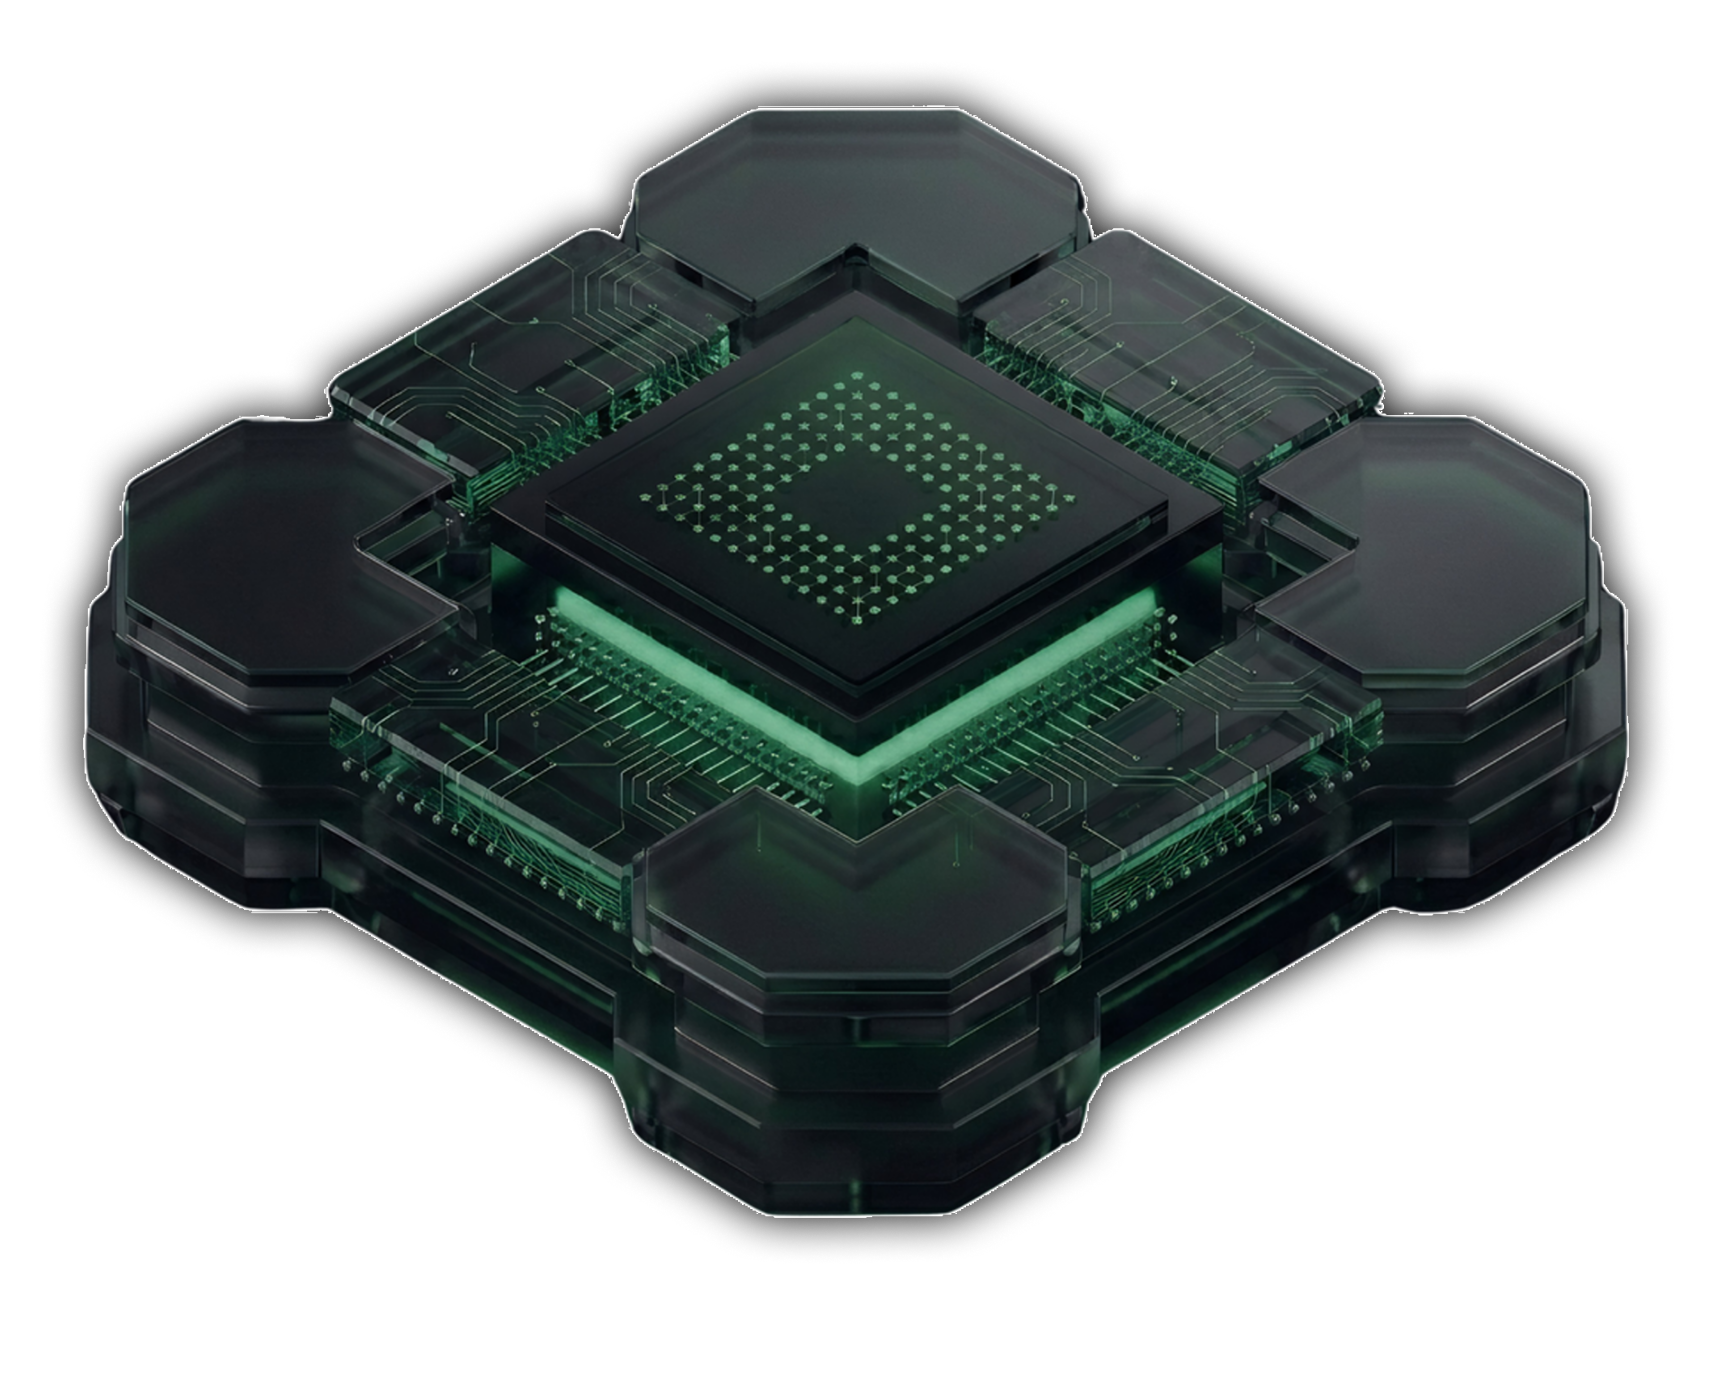
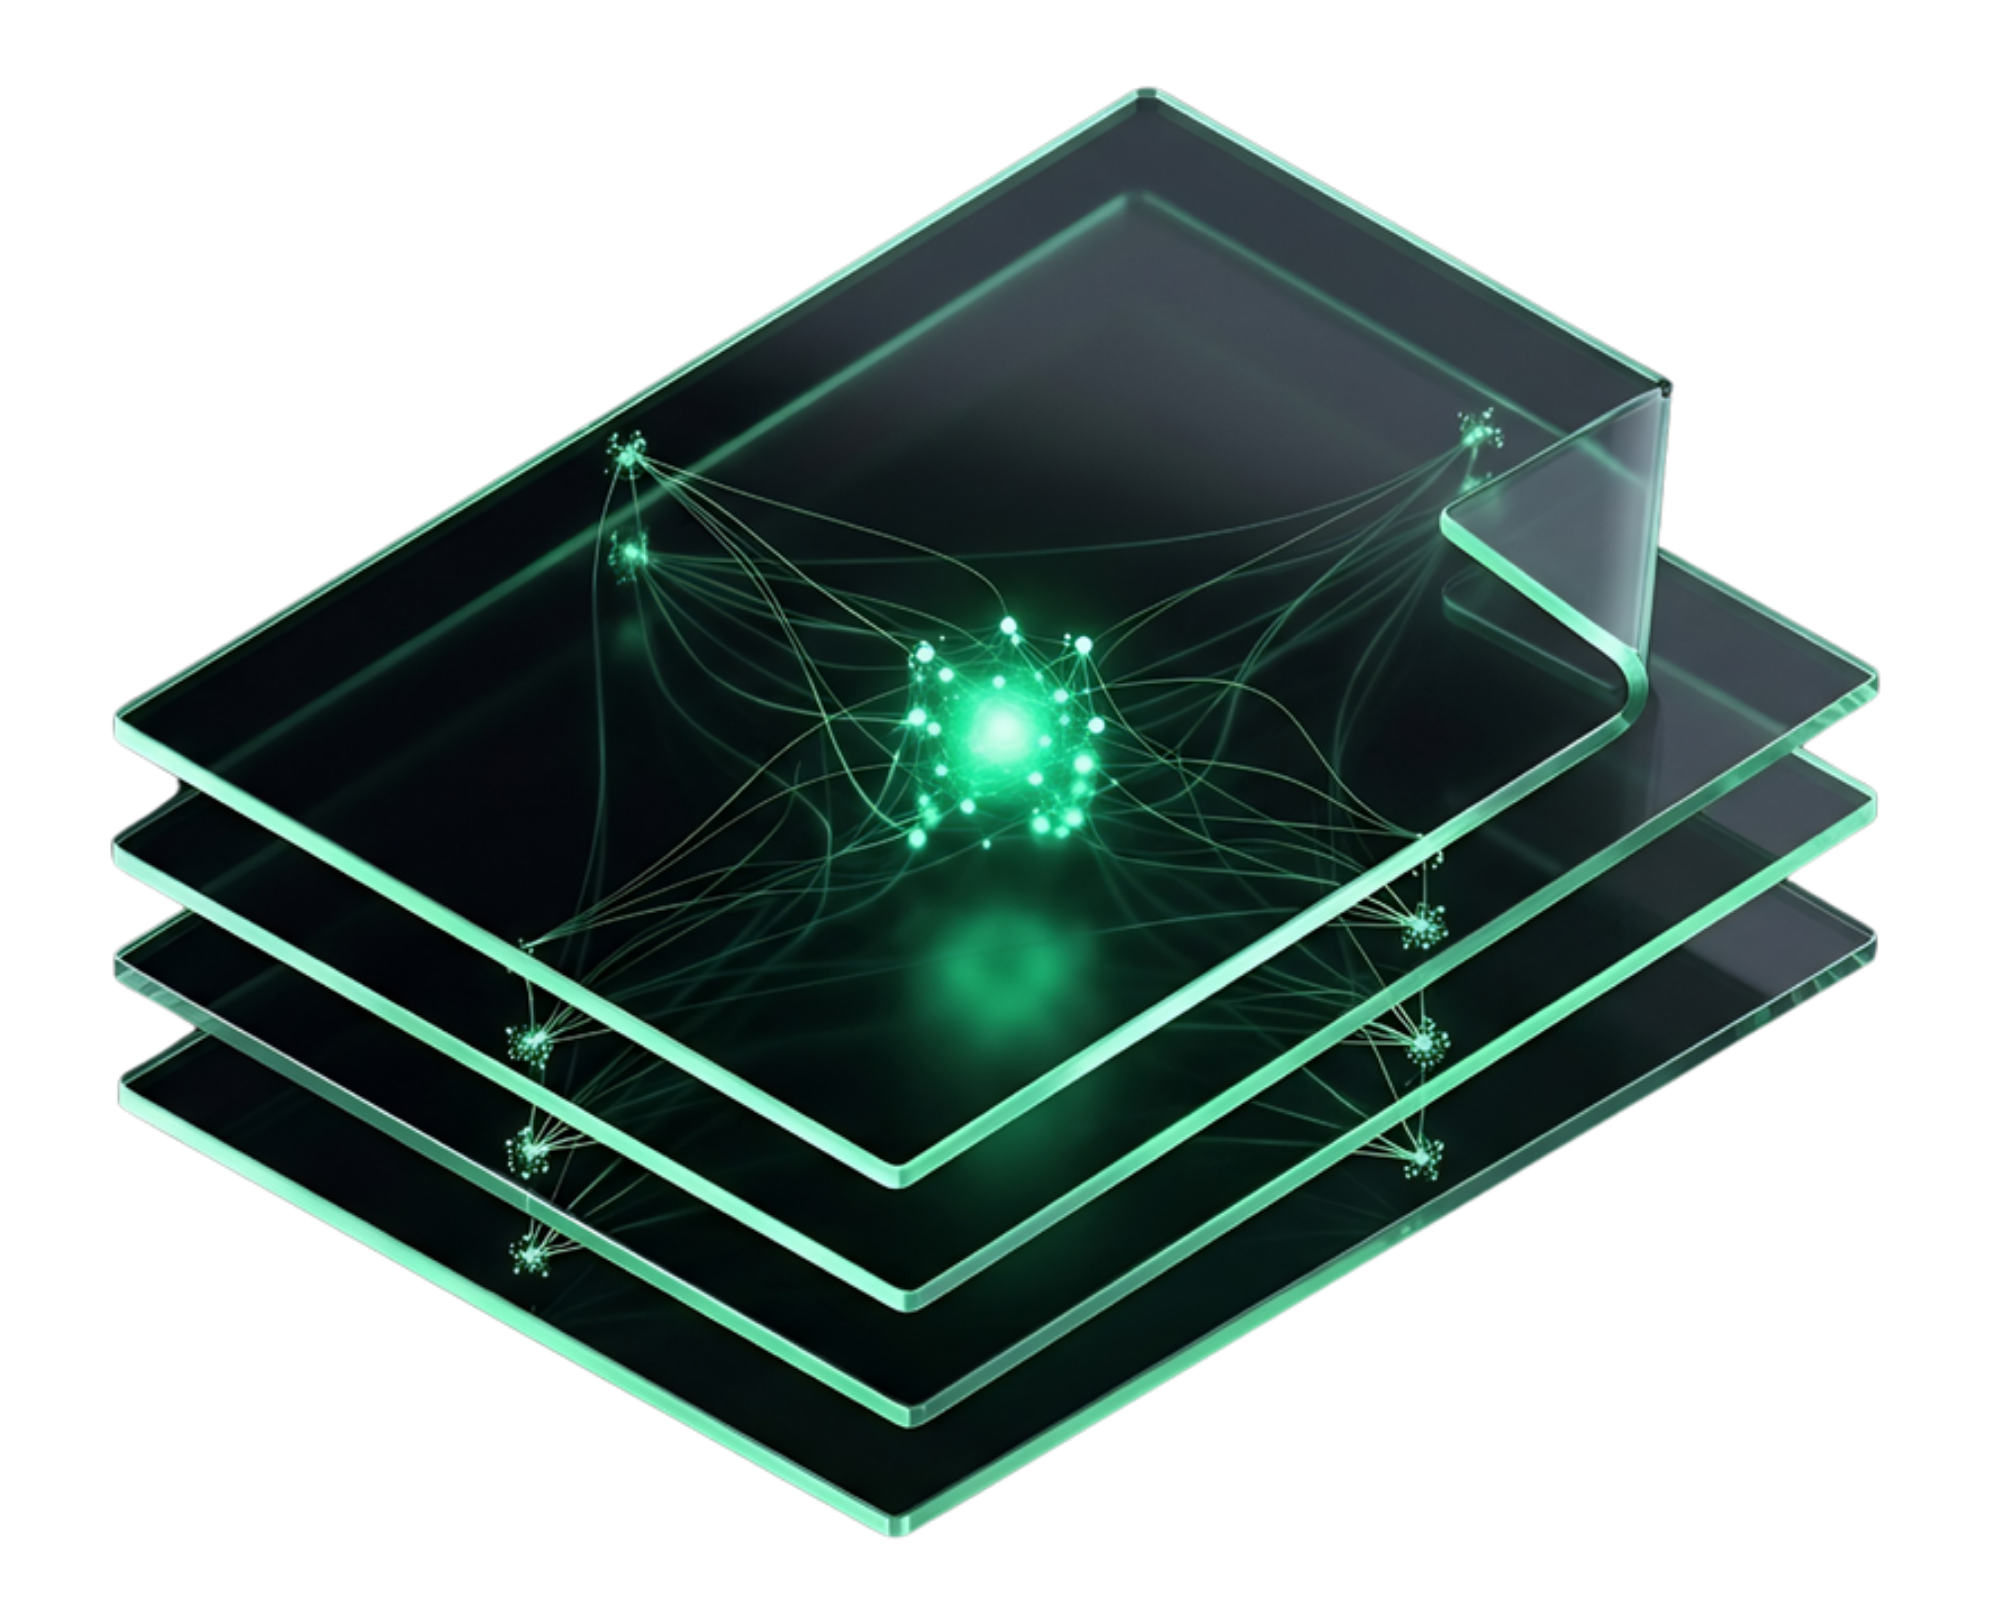
feat: update Hero and mobile menu

diff --git a/src/components/home/Navbar.jsx b/src/components/home/Navbar.jsx
@@ -2,10 +2,11 @@ import { useState, useEffect } from "react";
 
 const Navbar = () => {
     const [activeSection, setActiveSection] = useState("home");
+    const [mobileMenuOpen, setMobileMenuOpen] = useState(false);
 
     useEffect(() => {
         const sections = ["home", "features", "pricing", "faq"];
-        
+
         const observer = new IntersectionObserver(
             (entries) => {
                 entries.forEach((entry) => {
@@ -27,6 +28,7 @@ const Navbar = () => {
 
     const smoothScroll = (e, sectionId) => {
         e.preventDefault();
+        setMobileMenuOpen(false); // Close mobile menu when clicking
         const element = document.getElementById(sectionId);
         if (element) {
             element.scrollIntoView({
@@ -37,15 +39,17 @@ const Navbar = () => {
     };
 
     return (
-        <nav className="fixed w-full z-50 backdrop-blur-lg">
-            <div className="max-w-7xl mx-auto flex items-center justify-between py-4 px-6 md:px-0">
+        <nav className="fixed w-full z-50 backdrop-blur-lg bg-black/50">
+            <div className="max-w-7xl mx-auto flex items-center justify-between py-4 px-6">
                 
+                {/* Logo */}
                 <a href="#home" onClick={(e) => smoothScroll(e, "home")} className="flex items-center gap-1">
                     <h1 className="text-2xl font-bold text-primary-text">
                         Zentic<span className="text-secondary-text">AI</span>
                     </h1>
                 </a>
 
+                {/* Desktop Navigation */}
                 <div className="hidden md:flex items-center gap-8">
                     <a
                         href="#home"
@@ -63,7 +67,7 @@ const Navbar = () => {
                         onClick={(e) => smoothScroll(e, "features")}
                         className={`transition duration-300 text-lg cursor-pointer ${
                             activeSection === "features"
-                                ? "text-primary-text"
+                                ? "text-primary-text "
                                 : "text-secondary-text hover:text-primary-text"
                         }`}
                     >
@@ -95,19 +99,84 @@ const Navbar = () => {
 
                 {/* Buttons */}
                 <div className="flex items-center gap-3">
-                    <button className="px-4 py-2 text-lg font-normal text-primary-text hover:text-secondary-text transition hidden lg:flex">
+                    <button className="px-4 py-2 text-lg font-normal text-primary-text hover:text-secondary-text transition hidden sm:block">
                         Login
                     </button>
-                    <button className="px-5 py-2 text-lg font-normal bg-btn-primary rounded-xl text-white hover:opacity-80 transition ">
+                    <button className="px-5 py-2 text-lg font-normal bg-btn-primary rounded-xl text-white hover:opacity-80 transition">
                         Sign up
                     </button>
 
                     {/* Mobile Menu Button */}
-                    <button className="md:hidden p-2 text-primary-text">
-                        <svg className="w-6 h-6" fill="none" stroke="currentColor" viewBox="0 0 24 24">
-                            <path strokeLinecap="round" strokeWidth="2" d="M4 6h16M4 12h16M4 18h16" />
-                        </svg>
+                    <button 
+                        className="md:hidden p-2 text-primary-text focus:outline-none"
+                        onClick={() => setMobileMenuOpen(!mobileMenuOpen)}
+                    >
+                        <div className="w-6 h-6 relative">
+                            <span className={`absolute h-0.5 w-6 bg-current transform transition-all duration-300 ease-in-out ${
+                                mobileMenuOpen ? "rotate-45 top-3" : "top-1"
+                            }`} />
+                            <span className={`absolute h-0.5 bg-current transition-all duration-300 ease-in-out ${
+                                mobileMenuOpen ? "opacity-0 w-0" : "w-6 top-3 opacity-100"
+                            }`} />
+                            <span className={`absolute h-0.5 w-6 bg-current transform transition-all duration-300 ease-in-out ${
+                                mobileMenuOpen ? "-rotate-45 top-3" : "top-5"
+                            }`} />
+                        </div>
                     </button>
+                </div>
+            </div>
+
+            {/* Mobile Menu Dropdown */}
+            <div className={`md:hidden overflow-hidden transition-all duration-300 ease-in-out ${
+                mobileMenuOpen ? "max-h-96 opacity-100" : "max-h-0 opacity-0"
+            }`}>
+                <div className="px-6 pb-6 pt-2 bg-black/95 backdrop-blur-lg border-t border-brand-light/20">
+                    <div className="flex flex-col gap-4">
+                        <a
+                            href="#home"
+                            onClick={(e) => smoothScroll(e, "home")}
+                            className={`transition text-lg py-2 ${
+                                activeSection === "home"
+                                    ? "text-primary-text font-semibold border-l-4 border-secondary-text pl-3"
+                                    : "text-secondary-text hover:text-primary-text pl-4"
+                            }`}
+                        >
+                            Home
+                        </a>
+                        <a
+                            href="#features"
+                            onClick={(e) => smoothScroll(e, "features")}
+                            className={`transition text-lg py-2 ${
+                                activeSection === "features"
+                                    ? "text-primary-text font-semibold border-l-4 border-secondary-text pl-3"
+                                    : "text-secondary-text hover:text-primary-text pl-4"
+                            }`}
+                        >
+                            Features
+                        </a>
+                        <a
+                            href="#pricing"
+                            onClick={(e) => smoothScroll(e, "pricing")}
+                            className={`transition text-lg py-2 ${
+                                activeSection === "pricing"
+                                    ? "text-primary-text font-semibold border-l-4 border-secondary-text pl-3"
+                                    : "text-secondary-text hover:text-primary-text pl-4"
+                            }`}
+                        >
+                            Pricing
+                        </a>
+                        <a
+                            href="#faq"
+                            onClick={(e) => smoothScroll(e, "faq")}
+                            className={`transition text-lg py-2 ${
+                                activeSection === "faq"
+                                    ? "text-primary-text font-semibold border-l-4 border-secondary-text pl-3"
+                                    : "text-secondary-text hover:text-primary-text pl-4"
+                            }`}
+                        >
+                            FAQ
+                        </a>
+                    </div>
                 </div>
             </div>
         </nav>

diff --git a/src/components/home/Hero.jsx b/src/components/home/Hero.jsx
@@ -1,6 +1,7 @@
 import { useState, useRef } from "react";
 import heroImg from "../../assets/hero-img.png";
-import heroImgSm from "../../assets/hero-img-sm.png"
+import heroImgSm from "../../assets/hero-img-sm.png";
+import { FaChevronDown } from "react-icons/fa";
 
 const Hero = () => {
 
@@ -29,10 +30,19 @@ const Hero = () => {
         setRotateY(0);
         setIsHovering(false);
     };
-    
+
+    const scrollToNextSection = () => {
+        const nextSection = document.getElementById("features"); 
+        if (nextSection) {
+            nextSection.scrollIntoView({
+                behavior: "smooth",
+                block: "start",
+            });
+        }
+    };
 
     return (
-        <section id="home" className="relative min-h-screen flex items-center px-6 pt-32">
+        <section id="home" className="relative min-h-screen flex items-center px-6 md:pt-32">
             <div className="max-w-7xl mx-auto w-full">
 
                 <div className="text-center max-w-3xl mx-auto">
@@ -71,7 +81,6 @@ const Hero = () => {
                             transition: 'transform 0.1s ease-out'
                         }}
                     >
-                        {/* Glow effect on hover */}
                         {isHovering && (
                             <div className="absolute -inset-4opacity-50 animate-pulse"></div>
                         )}
@@ -84,11 +93,23 @@ const Hero = () => {
                                 transition: 'transform 0.3s ease'
                             }}
                         />
-                        <img src={heroImgSm} className="w-72 h-72 mx-auto md:hidden" alt="" />
+                        <img src={heroImgSm} className="w-64 mx-auto md:hidden" alt="" />
+
                     </div>
                 </div>
 
             </div>
+
+            <div className="absolute bottom-8 left-0 right-0 flex justify-center md:hidden">
+                <button
+                    onClick={scrollToNextSection}
+                    className="animate-bounce bg-brand-medium/20 hover:bg-brand-medium/30 backdrop-blur-sm p-3 rounded-full transition-all duration-300 hover:scale-110"
+                    aria-label="Scroll down"
+                >
+                    <FaChevronDown className="text-secondary-text text-xl" />
+                </button>
+            </div>
+
         </section>
     );
 }

diff --git a/src/components/home/Footer.jsx b/src/components/home/Footer.jsx
@@ -17,7 +17,7 @@ const Footer = () => {
         <footer className="relative bg-footer-bg md:mt-20 mt-3 rounded-t-3xl ">
             <div className="max-w-7xl mx-auto py-12 px-6">
 
-                <div className="flex flex-col md:flex-row justify-between gap-8 md:gap-12 mt-5">
+                <div className="flex flex-col md:flex-row justify-between gap-8 md:gap-12 md:mt-10">
 
                     <div className="md:max-w-xs">
                         <a
